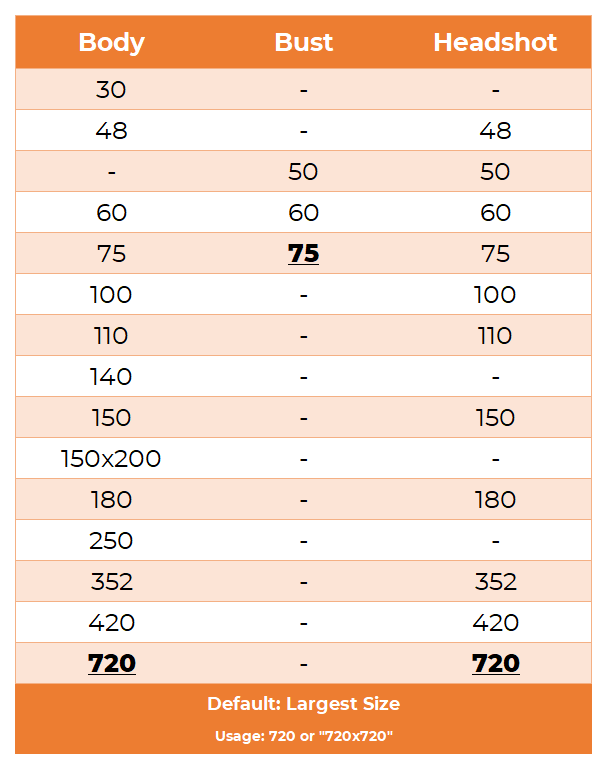
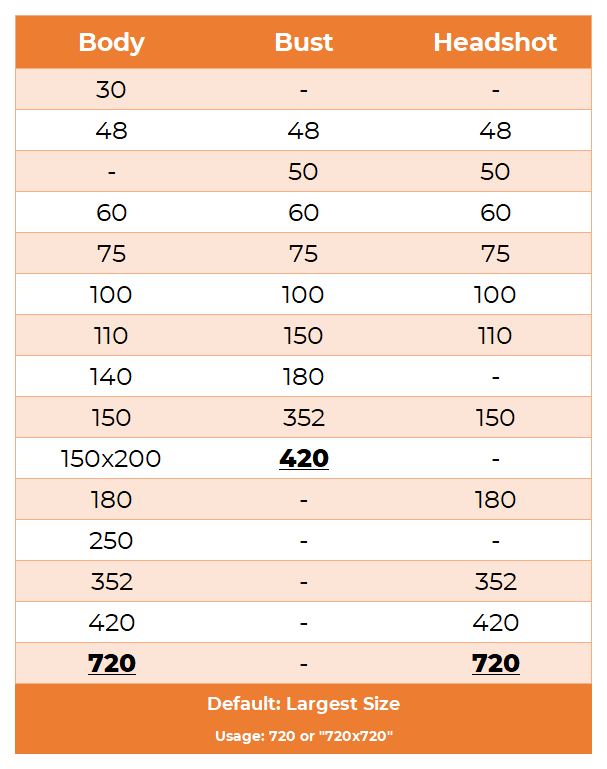
Update docs: update getPlayerThumbnail bust sizes

diff --git a/lib/user/getPlayerThumbnail.js b/lib/user/getPlayerThumbnail.js
@@ -13,7 +13,7 @@ const eligibleSizes = {
     endpoint: 'avatar'
   },
   bust: {
-    sizes: ['50x50', '60x60', '75x75'],
+    sizes: ['48x48', '50x50', '60x60', '75x75', '100x100', '150x150', '180x180', '352x352', '420x420'],
     endpoint: 'avatar-bust'
   },
   headshot: {
